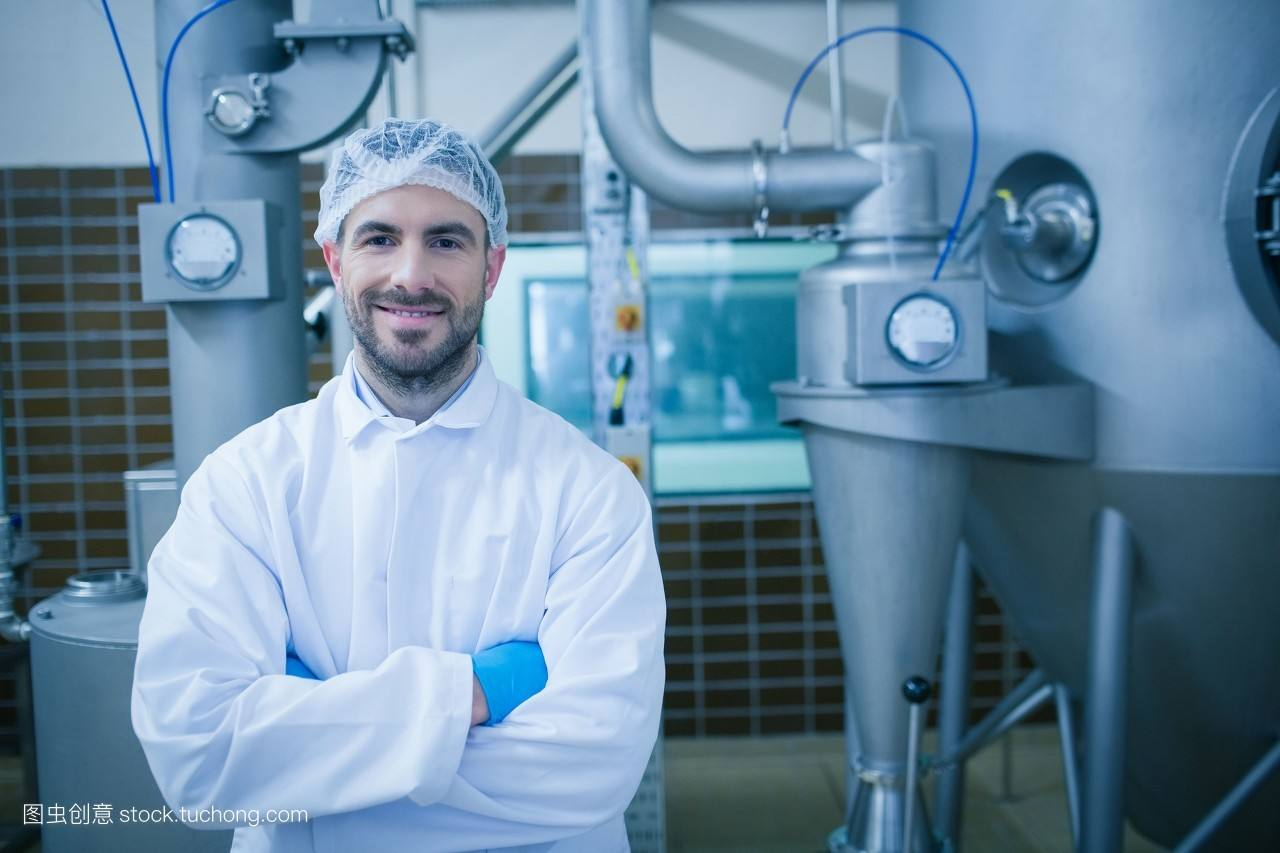
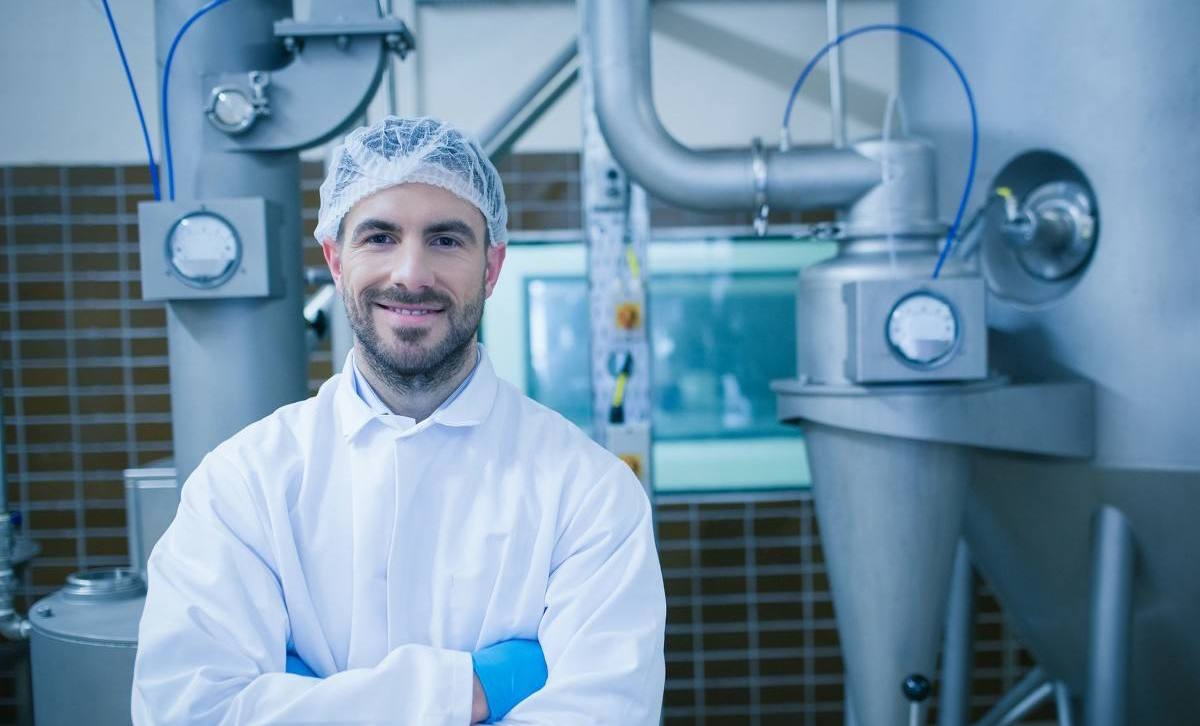
change image

diff --git a/assets/stylesheets/home.css b/assets/stylesheets/home.css
@@ -45,7 +45,7 @@
 
 .featurette img {
     width: 400px;
-    height: 250px;
+    height: 225px;
 }
 
 .center {
